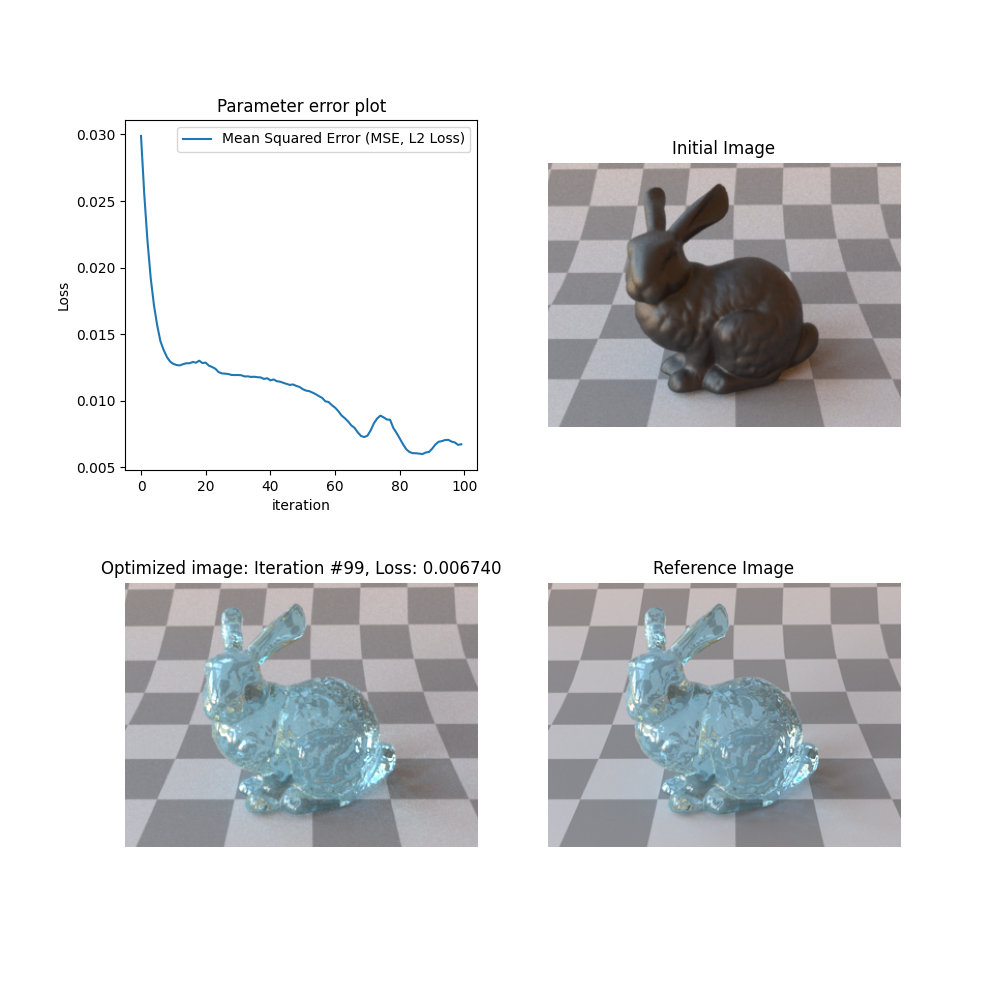
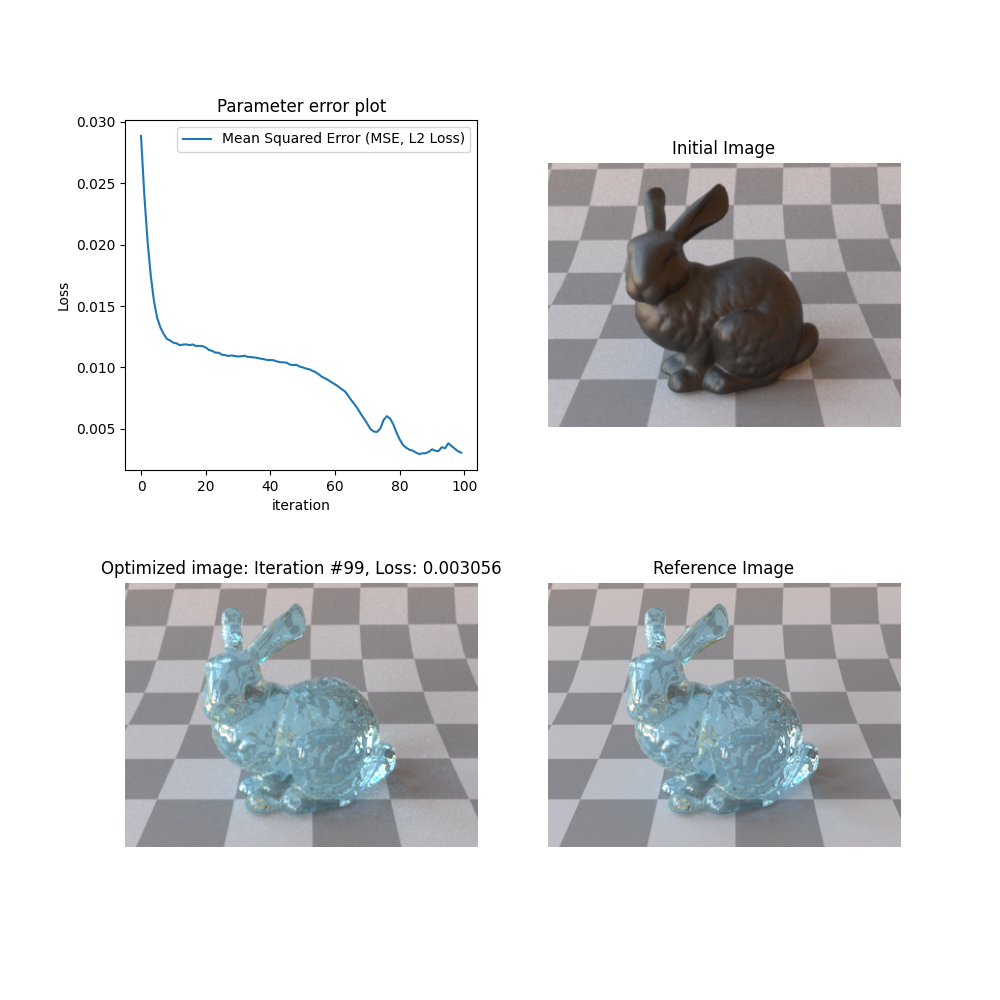
Update: notes

diff --git a/notes.md b/notes.md
@@ -398,11 +398,11 @@ As mentioned previously, the optimized image in [Figure X](#figure-x) is not act
 
 #### Figure X
 
-![Figure X](python\material-optimizer\images\material-optimizer-result-figure-green-translucent.png)
+![Figure X](python\material-optimizer\images\figures\material-optimizer-result-figure-green-translucent.png)
 
 #### Figure X2: Bitmap texture after the optimization procedure
 
-![Figure X2](python\material-optimizer\images\green-translucent-texture.png)
+![Figure X2](python\material-optimizer\images\optimized\green-translucent-texture.png)
 
 ### 7.12.22
 
@@ -412,32 +412,26 @@ In this section, we examine material reconstruction from synthethic data. More s
 
 In [Figure X3](#figure-x3) material reconstruction of a bunny is shown. As in the previous cases, the top left corner of the figure shows the parameter error plot, where x axis displays the iteration count and y axis shows the loss during optimization. The top right corner shows the initial state, top left the optimized image and lastly the top right corner shows the reference image. As mentioned previously, in the case of synthethic data, the reference scene is manipulated to arbitrary values that results in the initial image shown in [Figure X3](#figure-x3).
 
-The bunny object that is shown in [Figure X3](#figure-x3) and [Figure X4](#figure-x4) is assigned to a Principled BSDF. The only difference between [Figure X3](#figure-x3) and [Figure X4](#figure-x4) is the used loss function. As can be seen in [Figure X4](#figure-x4), the material properties of the bunny converges more quickly to the reference image shown with the use of the Dual-Buffer Method by Deng et al. 2022. The details of the material optimization procedure - such as the scene parameters that are being used - can be found in the [Table X](#table-x).
+The bunny object that is shown in [Figure X3](#figure-x3) and [Figure X4](#figure-x4) is assigned to a Principled BSDF. The only difference between [Figure X3](#figure-x3) and [Figure X4](#figure-x4) is the used loss function during optimization. As can be seen in [Figure X4](#figure-x4), the material properties of the bunny converges more quickly to the reference image shown with the use of the Dual-Buffer Method by Deng et al. 2022. The details of the material optimization procedure - such as the scene parameters that are being used - can be found in the [Table X](#table-x).
 
 #### Table X
 
-| Parameters                            | Reference           | Figure X3                                                   | Figure X4                                                  |
-| ------------------------------------- | ------------------- | ----------------------------------------------------------- | ---------------------------------------------------------- |
-| Optimized Principled BSDF: roughness  | 0.01                | 0.0010000000474974513                                       | 0.0010000000474974513                                      |
-| Initial Principled BSDF: roughness    | 0.01                | 0.5                                                         | 0.5                                                        |
-| Optimized Principled BSDF: base_color | 0.412, 0.824, 0.999 | 0.40266287326812744, 0.8450221419334412, 0.9990000128746033 | 0.4148377776145935, 0.8116224408149719, 0.9704205989837646 |
-| Initial Principled BSDF: base_color   | 0.412, 0.824, 0.999 | 0.1, 0.1, 0.1                                               | 0.1, 0.1, 0.1                                              |
-| Optimized Principled BSDF: spec_trans | 0.9                 | 0.9112842082977295                                          | 0.9149118065834045                                         |
-| Initial Principled BSDF: spec_trans   | 0.9                 | 0.02                                                        | 0.02                                                       |
-| Loss Function                         | X                   | Mean Squared Error                                          | Dual Buffer Method Deng et al. 2022                        |
-| Samples Per Pixel During Iteration    | X                   | 16                                                          | 8                                                          |
-| Iteration Count                       | X                   | 100                                                         | 90                                                         |
-| Minimum Error                         | X                   | 0.001                                                       | 0.001                                                      |
-| Optimized Principled BSDF: eta        | 1.49                | Unable to converge if included                              | Unable to converge if included                             |
-| Initial Principled BSDF: eta          | 1.49                | 1.54                                                        | 1.54                                                       |
+| Parameters                            | Reference           | Figure X3                                                  | Figure X4                                                 |
+| ------------------------------------- | ------------------- | ---------------------------------------------------------- | --------------------------------------------------------- |
+| Optimized Principled BSDF: roughness  | 0.01                | 0.0010000000474974513                                      | 0.05581555888056755                                       |
+| Initial Principled BSDF: roughness    | 0.01                | 0.5                                                        | 0.5                                                       |
+| Optimized Principled BSDF: base_color | 0.412, 0.824, 0.999 | 0.4085944890975952, 0.8463479280471802, 0.9990000128746033 | 0.4110097289085388, 0.848652720451355, 0.9990000128746033 |
+| Initial Principled BSDF: base_color   | 0.412, 0.824, 0.999 | 0.1, 0.1, 0.1                                              | 0.1, 0.1, 0.1                                             |
+| Optimized Principled BSDF: spec_trans | 0.9                 | 0.9011966586112976                                         | 0.8804255723953247                                        |
+| Initial Principled BSDF: spec_trans   | 0.9                 | 0.02                                                       | 0.02                                                      |
+| Optimized Principled BSDF: eta        | 1.49                | 1.4877701997756958                                         | 1.4983259439468384                                        |
+| Initial Principled BSDF: eta          | 1.49                | 1.54                                                       | 1.54                                                      |
+| Loss Function                         | X                   | Mean Squared Error                                         | Dual Buffer Method Deng et al. 2022                       |
+| Samples Per Pixel During Iteration    | X                   | 32                                                         | 16                                                        |
+| Iteration Count                       | X                   | 100                                                        | 100                                                       |
+| Minimum Error                         | X                   | 0.001                                                      | 0.0001                                                    |
 
-In [Table X](#table-x) samples per pixel during iteration and iteration count is also shown. The Dual Buffer Method by Deng et al. 2022 reaches the defined minimum error by material-optimizer in the 90th iteration and consequently stops the optimization. The difference in samples per pixel during iteration is mainly how the Dual Buffer Method by Deng et al. 2022 is introduced. For further details please refer to the corresponding paper.
-
-Interestingly, for the bunny object introducing the index of refraction (eta) parameter into the optimization procedure results in inaccurate results. This inability to optimize the index of refraction parameter of the bunny object does not only occur including into the optimization parameters such as roughness, but also trying to reconstruct it after the optimization is finished for the parameters such as roughness, base color and specular transmission. However, for a simple shape like in Figure X5, the index of refraction parameter converges into the correct result. In this example, the index of refraction value is optimized after reconstructing roughness, base color and specular transmission value.
-
-The author would like to speculate that this inability of reconstructing the index of refraction value might be related to the geometry of the optimized shape (i.e. in this case the high-poly bunny object). Nonetheless, the causation requires a further scientific analysis, which is not the scope of this paper.
-
-TODO show material-preview object example
+In [Table X](#table-x) samples per pixel during iteration and iteration count is also shown. In the case of [Figure X4](#figure-x4) where the Dual Buffer Method by Deng et al. 2022 is in use, the chosen minimum error is lower compared to [Figure X3](#figure-x3). This is mainly because of the expected faster convergence rate of the Dual-Buffer Method. The difference in samples per pixel during iteration is mainly how the Dual Buffer Method by Deng et al. 2022 is introduced. For further details please refer to the corresponding paper.
 
 #### Figure X3
 
@@ -447,65 +441,83 @@ TODO show material-preview object example
 
 ![Figure X4](python\material-optimizer\images\figures\material-optimizer-result-figure-bunny-principled-dual-buffer.png)
 
-Similar to the previous example in [Figure X3](#figure-x3), material reconstruction of a bunny object is shown in [Figure X6](#figure-x6) and [Figure X7](#figure-x7). However, in this figure the bunny object is assigned to a Roughdielectric BSDF with a volume (participating media: medium) inside. Consequently, this example uses a differentiable volumetric path tracer (_prbvolpath_) and reconstructs volumetric material properties. Thus, material-optimizer provides two way to reconstruct translucent objects: one via reconstructing Principled BSDF properties and the other with (Rough/Thin)Dielectric BSDF including a participating media interior. The [Table X2](#table-x2) shows the results of Figure 6 and Figure 7.
+Another material reconstruction example is shown in Figure [Figure X5](#figure-x5). However, in this example the material optimization procedure is applied to another shape that blends two BSDF's that is defined in mitsuba, namely Bump map BSDF adapter and Principled BSDF. Additionally, the base color value of the object is defined as a bitmap texture to show the capability of reconstructing materials of translucent objects with varying color values using Principled BSDF. [Table X2](#table-x2) shows the corresponding results. Please note that for the sake of conciseness [Figure X3](#figure-x3) and [Table X2](#table-x2) shows only the results where the used loss function during optimization is the Dual-Buffer Method by Deng et al. 2022.
 
 #### Table X2
 
-| Parameters                            | Reference                               | Figure 6                                | Figure 7                                |
-| ------------------------------------- | --------------------------------------- | --------------------------------------- | --------------------------------------- |
-| Optimized Roughdielectric BSDF: alpha | 0.01                                    | 0.0010000000474974513                   | 0.042617008090019226                    |
-| Initial Roughdielectric BSDF: alpha   | 0.01                                    | 0.98                                    | 0.98                                    |
-| Optimized Homogeneous Medium: sigma_t | 0.4                                     | 0.5923337340354919                      | 0.38419654965400696                     |
-| Initial Homogeneous Medium: sigma_t   | 0.4                                     | 0.7                                     | 0.7                                     |
-| Optimized Homogeneous Medium: albedo  | Colored Volume (resolution: 16x16x16x3) | Colored Volume (resolution: 16x16x16x3) | Colored Volume (resolution: 16x16x16x3) |
-| Initial Homogeneous Medium: albedo    | Colored Volume (resolution: 16x16x16x3) | Empty Volume (resolution: 16x16x16x3)   | Empty Volume (resolution: 16x16x16x3)   |
-| Loss Function                         | X                                       | Mean Squared Error                      | Dual Buffer Method Deng et al. 2022     |
-| Samples Per Pixel During Iteration    | X                                       | 16                                      | 8                                       |
-| Iteration Count                       | X                                       | 100                                     | 32                                      |
-| Minimum Error                         | X                                       | 0.001                                   | 0.001                                   |
+| Parameters                            | Reference                              | Figure X3                                            |
+| ------------------------------------- | -------------------------------------- | ---------------------------------------------------- |
+| Optimized Principled BSDF: roughness  | 0.001                                  | 0.011701240204274654                                 |
+| Initial Principled BSDF: roughness    | 0.001                                  | 0.7                                                  |
+| Optimized Principled BSDF: base_color | Bitmap Texture (supplemented material) | Reconstructed Bitmap Texture (resolution: 512x512x3) |
+| Initial Principled BSDF: base_color   | Bitmap Texture (supplemented material) | Empty(Black) Bitmap Texture (resolution: 512x512x3)  |
+| Optimized Principled BSDF: spec_trans | 1.0                                    | 0.9990000128746033                                   |
+| Initial Principled BSDF: spec_trans   | 1.0                                    | 0.1                                                  |
+| Optimized Principled BSDF: eta        | 1.49                                   | 1.4977041482925415                                   |
+| Initial Principled BSDF: eta          | 1.49                                   | 1.64                                                 |
+| Learning rate: eta                    | X                                      | 0.01                                                 |
+| Loss Function                         | X                                      | Dual Buffer Method Deng et al. 2022                  |
+| Samples Per Pixel During Iteration    | X                                      | 8                                                    |
+| Iteration Count                       | X                                      | 129                                                  |
+| Minimum Error                         | X                                      | 0.0005                                               |
 
+#### Figure X5
 
-Similar to the previous examples, the [Table X2](#table-x2) shows that the Dual Buffer Method introduced by Deng et al. 2022 produces quicker acceptable results. However, it is important to note that the optimized 'alpha' parameter for Figure 7 is still quite far away from the reference value. This is mainly caused from the chosen minimum error, thus the short iteration count and the fast convergence rate of the Dual Buffer Method. Assuming lower minimum error rate (i.e. longer iteration count), we would observe a closer alpha value to the reference. Another important thing to note is the optimized volume albedo. Similar to optimization of bitmap texture, the optimized volume may produced biased results, since in both cases the optized parameter (bitmap texture or volume) is a multidimensional array and during optimization tries to imitate the value/s in the provided reference image. The user must make sure that the provided scene and the reference image does not containe any indirect effects (such as background objects that can be seen through the transparent objects - these effects will be imitated inside the transparent object (i.e. bitmap texture or volume) during optimization) that would effect the optimization.
-Parameters to optmize:
+![Figure X5](python\material-optimizer\images\figures\material-optimizer-result-figure-varying-texture-principled.png)
 
-- orig:
+Similar to the previous example in [Figure X3](#figure-x3), material reconstruction of a bunny object is shown in [Figure X6](#figure-x6), [Figure X7](#figure-x7), [Figure X8](#figure-x8) and [Figure X9](#figure-x9). However, in these examples the bunny object is assigned to a Roughdielectric BSDF with a volume (participating media: medium) inside. Consequently, these examples uses a differentiable volumetric path tracer (_prbvolpath_) and reconstructs volumetric material properties. Thus, material-optimizer provides two way to reconstruct translucent objects: one via reconstructing Principled BSDF properties and the other with (Rough/Thin)Dielectric BSDF including a participating media interior. Note that a constant RGB value is being optimized in [Figure X6](#figure-x6) to represent the albedo value of the object. On the other hand, the color values from the examples in Figure X7, X8 and X9 are being represented as a grid-based volume data source with a resolution 16x16x16x3. This is similar to the difference between [Figure X3](#figure-x3) and [Figure X5](#figure-x5), where in Figure X3 a constant RGB value and in Figure X5 a bitmap texture represented the color value of the object. The [Table X3](#table-x3) shows the results of [Figure X6](#figure-x6).
 
-        <float name="alpha" value="0.01"/>
-        <float name="sigma_t" value="0.4"/>
-        <rgb name="albedo" value="0.412, 0.824, 0.999"/>
+#### Table X3
 
-  - volume data - see scenes\material-preview\textures\colored_albedo.vol
+| Parameters                            | Reference           | Figure 6                                                      |
+| ------------------------------------- | ------------------- | ------------------------------------------------------------- |
+| Optimized Roughdielectric BSDF: alpha | 0.01                | 0.0010000000474974513                                         |
+| Initial Roughdielectric BSDF: alpha   | 0.01                | 0.98                                                          |
+| Optimized Roughdielectric BSDF: eta   | 1.49                | 1.5032265186309814                                            |
+| Initial Roughdielectric BSDF: eta     | 1.49                | 1.544                                                         |
+| Optimized Homogeneous Medium: sigma_t | 0.4                 | 0.6096177697181702                                            |
+| Initial Homogeneous Medium: sigma_t   | 0.4                 | 0.99                                                          |
+| Optimized Homogeneous Medium: albedo  | 0.412, 0.824, 0.999 | 0.18000000715255737, 0.18000000715255737, 0.18000000715255737 |
+| Initial Homogeneous Medium: albedo    | 0.412, 0.824, 0.999 | 0.01, 0.01, 0.01                                              |
+| Loss Function                         | X                   | Dual Buffer Method Deng et al. 2022                           |
+| Samples Per Pixel During Iteration    | X                   | 8                                                             |
+| Iteration Count                       | X                   | 100                                                           |
+| Minimum Error                         | X                   | 0.0008                                                        |
 
-- optimized
-  "object_bsdf.alpha.value": [
-  0.0010000000474974513
-  ],
-  "medium1.sigma_t.value.value": [
-  0.5923337340354919
-  ](python\material-optimizer\images\material-optimizer-result-figure-bunny-principled-dual-buffer.png)
-  - volume data: scenes\material-preview\textures\colored_albedo_optimized_mse.vol
-  - ![result](python\material-optimizer\images\material-optimizer-result-figure-bunny-varying-volume-mse.png)
+#### Figure X6
 
-Optimization stopped at #32, since it reached min. error threshold 0.001
-Parameters to optmize:
+![Figure X6](python\material-optimizer\images\figures\material-optimizer-result-figure-constant-volume.png)
 
-- orig:
+Analogous to the previous examples, the [Table X4](#table-x4) shows that the Dual Buffer Method introduced by Deng et al. 2022 produces quicker acceptable results. However, it is important to note that the optimized 'eta' parameter for Figure X8 is still quite far away from the reference value. Another capability of 'material-optimizer' is to switch between the last and minimum-error scene state of the optimization. After the optimization procedure is finished the user receives a figure just like in [Figure X9](#figure-x9). Subsequently, on the error plot of the top left corner of the figure the user may observe that a minimum error rate is achieved previously than the last iteration of the optimization. Infact, [Figure X9](#figure-x9) and the values on the fifth column of [Table X4](#table-x4) is the result of the use of this functionality.
 
-        <float name="alpha" value="0.01"/>
-        <float name="sigma_t" value="0.4"/>
-        <rgb name="albedo" value="0.412, 0.824, 0.999"/>
+Another important thing to note is the optimized volume albedo. Similar to optimization of bitmap texture, the optimized volume may produced biased results, since in both cases the optized parameter (bitmap texture or volume) is a multidimensional array and the optimization procedure tries to imitate the value/s in the provided reference image. The user must make sure that the provided scene and the reference image does not contain any indirect effects (such as background objects that can be seen through the transparent objects - these effects will be imitated inside the transparent object (i.e. bitmap texture or volume) during optimization) that might effect the optimization procedure.
 
-  - volume data - see scenes\material-preview\textures\colored_albedo.vol
+The user may observe that a minimum error rate is achieved previously than the last iteration of the optimization.
+#### Table X4
 
-- optimized
-  "object_bsdf.alpha.value": [
-  0.042617008090019226
-  ],
-  "medium1.sigma_t.value.value": [
-  0.38419654965400696
-  ](python\material-optimizer\images\material-optimizer-result-figure-bunny-principled-dual-buffer.png)
+| Parameters                            | Reference                               | Figure 7                                | Figure 8                                | Figure 9                                |
+| ------------------------------------- | --------------------------------------- | --------------------------------------- | --------------------------------------- | --------------------------------------- |
+| Optimized Roughdielectric BSDF: alpha | 0.01                                    | 0.01794576644897461                     | 0.012510540895164013                    | 0.011586922220885754                    |
+| Initial Roughdielectric BSDF: alpha   | 0.01                                    | 0.98                                    | 0.98                                    | 0.98                                    |
+| Optimized Roughdielectric BSDF: eta   | 1.49                                    | 1.6646206378936768                      | 1.6183195114135742                      | 1.5124317407608032                      |
+| Initial Roughdielectric BSDF: eta     | 1.49                                    | 1.544                                   | 1.544                                   | 1.544                                   |
+| Optimized Homogeneous Medium: sigma_t | 0.4                                     | 0.6594341993331909                      | 0.5636458992958069                      | 0.5403354167938232                      |
+| Initial Homogeneous Medium: sigma_t   | 0.4                                     | 0.7                                     | 0.7                                     | 0.7                                     |
+| Optimized Homogeneous Medium: albedo  | Colored Volume (resolution: 16x16x16x3) | Colored Volume (resolution: 16x16x16x3) | Colored Volume (resolution: 16x16x16x3) | Colored Volume (resolution: 16x16x16x3) |
+| Initial Homogeneous Medium: albedo    | Colored Volume (resolution: 16x16x16x3) | Empty Volume (resolution: 16x16x16x3)   | Empty Volume (resolution: 16x16x16x3)   | Empty Volume (resolution: 16x16x16x3)   |
+| Loss Function                         | X                                       | Mean Squared Error                      | Dual Buffer Method Deng et al. 2022     | Dual Buffer Method Deng et al. 2022     |
+| Samples Per Pixel During Iteration    | X                                       | 16                                      | 8                                       | 8                                       |
+| Iteration Count                       | X                                       | 100                                     | 100                                     | 75                                      |
+| Minimum Error                         | X                                       | 0.001                                   | 0.0002                                  | 0.0002                                  |
 
-  - volume data: scenes\material-preview\textures\colored_albedo_optimized_mse.vol
-  - - ![result](python\material-optimizer\images\material-optimizer-result-figure-varying-volume-dual-buffer.png)
+#### Figure X7
 
-- TODO SHOW HOMOGENEOUS EXAMPLE, SHOW PRINCIPLED TEXTURED TRANSLUCENT EXAMPLE
+![Figure X7](python/material-optimizer/images/figures/material-optimizer-result-figure-bunny-varying-volume-mse.png)
+
+#### Figure X8
+
+![Figure X8](python\material-optimizer\images\figures\material-optimizer-result-figure-varying-volume-dual-buffer.png)
+
+#### Figure X9
+
+![Figure X9](python/material-optimizer/images/figures/material-optimizer-result-figure-bunny-varying-volume-dual-buffer-min-err.png)
